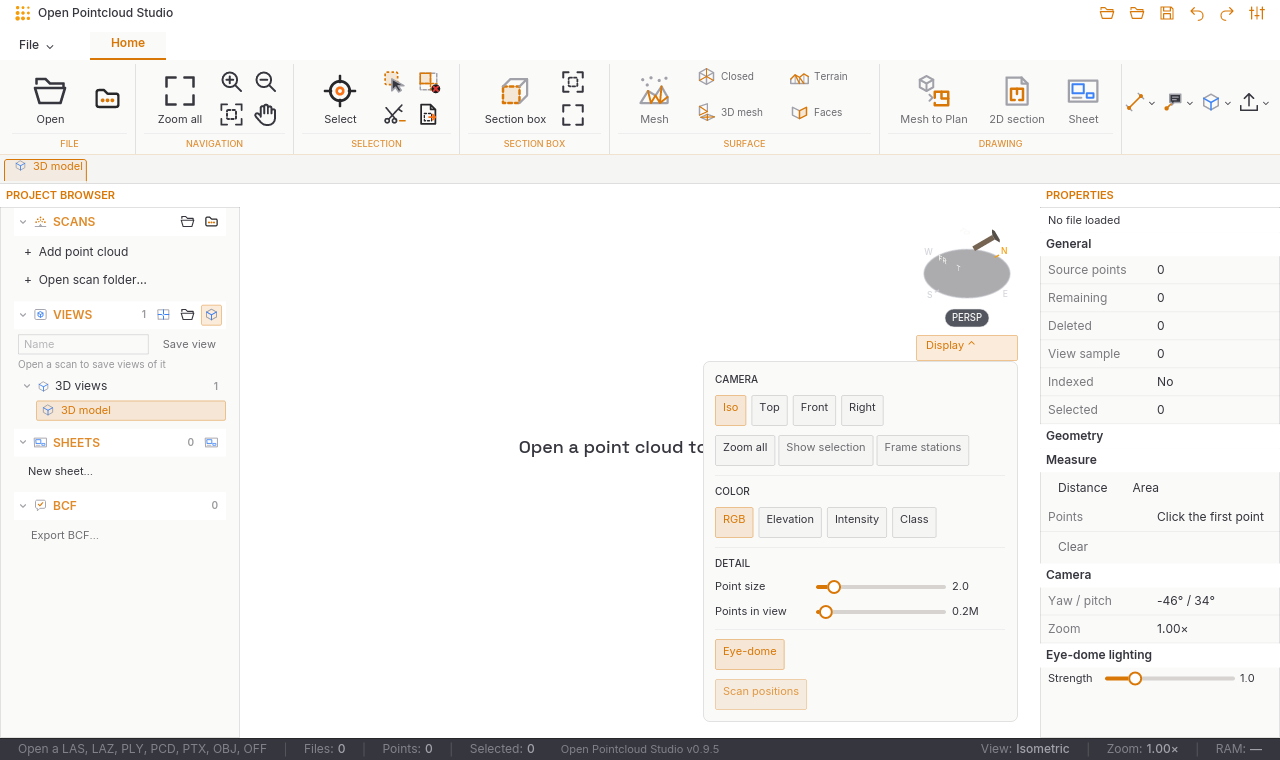
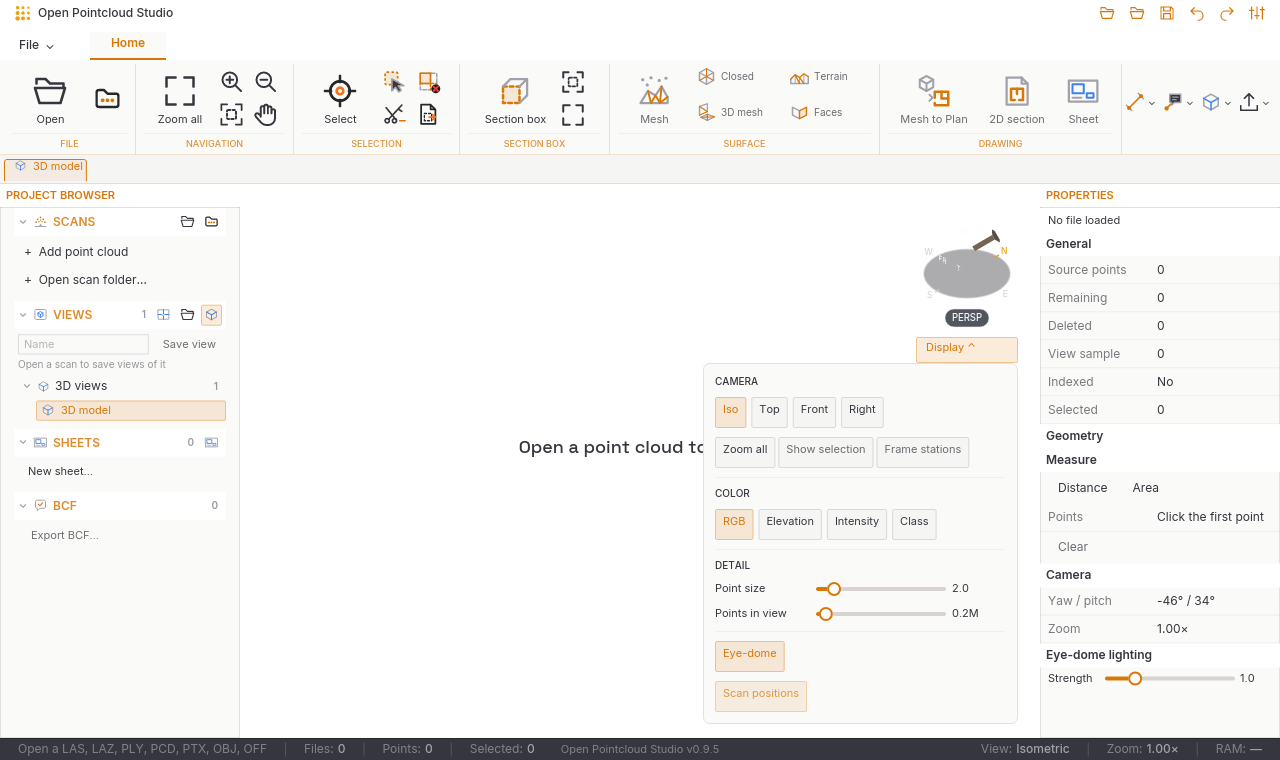
Share File navigation and preserve Pointcloud chrome

Changed region(s): [[0.5625, 0.6355, 0.7812, 0.9382], [0.5625, 0.4842, 0.75, 0.6053], [0.7188, 0.4237, 0.7812, 0.4842]]

diff --git a/native/desktop/src/file_view.rs b/native/desktop/src/file_view.rs
@@ -125,8 +125,6 @@ pub enum FileAction {
     MeshToPlans,
 }
 
-/// The height of a menu row that leads to a page.
-const PAGE_ROW_H: f32 = 40.0;
 /// The widest a column of tiles grows on a wide window.
 const TILE_COLUMN_W: f32 = 620.0;
 
@@ -244,88 +242,32 @@ impl Studio {
     /// is open and what the application is, then the entries every OpenAEC
     /// application has.
     fn file_menu(&self) -> Element<'_, Message> {
-        let rule = || {
-            container(Space::new(Fill, 1)).style(|theme| {
-                container::Style::default().background(ui_theme::colors(theme).border_subtle)
-            })
-        };
-        let item = |label: &'static str, message: Message| {
-            button(text(tr(label)).size(14))
-                .on_press(message)
-                .style(|theme, status| ui_style::ribbon_button(theme, false, status))
-                .width(Fill)
-                .padding([11, 18])
-        };
-        // The open page carries the accent bar of the style book at its left.
-        let page = |page: FilePage| {
-            let open = self.file_page == page;
-            row![
-                container(Space::new(3, Fill)).style(move |theme| {
-                    let colors = ui_theme::colors(theme);
-                    container::Style::default().background(if open {
-                        colors.accent
-                    } else {
-                        iced::Color::TRANSPARENT
-                    })
-                }),
-                button(text(tr(page.label())).size(14))
-                    .on_press(Message::FilePage(page))
-                    .style(move |theme, status| ui_style::ribbon_button(theme, open, status))
-                    .width(Fill)
-                    .height(Fill)
-                    .padding([11, 15]),
-            ]
-            .height(PAGE_ROW_H)
-        };
+        use openaec_ui::widgets::{BackstageFooter, BackstagePage};
         let pages = |task: bool| {
             FilePage::ALL
                 .into_iter()
-                .filter(|each| each.is_task() == task)
-                .fold(column![].width(Fill), |pages, each| pages.push(page(each)))
+                .filter(|page| page.is_task() == task)
+                .map(|page| BackstagePage {
+                    label: tr(page.label()).into(),
+                    message: Message::FilePage(page),
+                    active: self.file_page == page,
+                    enabled: true,
+                })
+                .collect()
         };
-        let top = column![
-            Space::new(Fill, 14),
+        openaec_ui::widgets::backstage_nav_with(
             pages(true),
-            container(rule()).padding([10, 0]),
             pages(false),
-        ]
-        .width(Fill);
-        let footer = column![
-            rule(),
-            item(
-                "Settings…",
-                Message::Settings(settings_dialog::SettingsAction::Open),
-            ),
-            button(
-                text(tr("←  Return to model"))
-                    .size(13)
-                    .font(fonts::SEMIBOLD),
-            )
-            .on_press(Message::ToggleFile)
-            .style(|theme, status| ui_style::ribbon_button(theme, false, status))
-            .width(Fill)
-            .padding([13, 18]),
-            // Exit ends the session at once: it stands apart, below the entry
-            // that is used most.
-            rule(),
-            item("Exit", Message::Exit),
-        ]
-        .width(Fill);
-
-        container(column![ui_style::scrollable(top).height(Fill), footer].height(Fill))
-            .width(260)
-            .height(Fill)
-            .style(|theme| {
-                let colors = ui_theme::colors(theme);
-                container::Style::default()
-                    .background(colors.bg_lighter)
-                    .border(iced::Border {
-                        color: colors.border,
-                        width: 1.0,
-                        radius: 0.0.into(),
-                    })
-            })
-            .into()
+            BackstageFooter {
+                settings: (
+                    tr("Settings…").into(),
+                    Message::Settings(settings_dialog::SettingsAction::Open),
+                ),
+                back: (tr("←  Return to model").into(), Message::ToggleFile),
+                exit: (tr("Exit").into(), Message::Exit),
+            },
+            ui_theme::shared_theme,
+        )
     }
 
     /// The title of a page with one line under it that says what it is for.

diff --git a/native/ui/src/shell.rs b/native/ui/src/shell.rs
@@ -1,5 +1,5 @@
 use crate::{fonts, icons::Icon, model::*, widgets, Language, Theme};
-use iced::{widget::{button, column, container, mouse_area, pane_grid, pick_list, row, scrollable, slider, stack, text, tooltip, Column, Row, Space}, Element, Fill, Padding};
+use iced::{widget::{button, column, container, mouse_area, pane_grid, pick_list, row, scrollable, slider, stack, text, tooltip, Row, Space}, Element, Fill, Padding};
 
 /// Application-owned contents. Shell layout and styling stay inside the crate.
 pub struct Slots<'a, M> {
@@ -9,6 +9,7 @@ pub struct Slots<'a, M> {
     pub documents: Vec<Document>,
     pub active_document: Option<String>,
     pub file_commands: Vec<Command<M>>,
+    pub file_active_label: Option<String>,
     pub quick_commands: Vec<Command<M>>,
     pub status: String,
     pub content: Box<dyn Fn(Region) -> Element<'a, Message<M>> + 'a>,
@@ -106,10 +107,24 @@ pub fn shell<'a, M: Clone + 'a>(state: &'a ShellState, slots: Slots<'a,M>) -> El
     }
     let document_bar=crate::frame::document_bar(theme, horizontal(documents));
     let body: Element<'a,Message<M>> = if state.backstage {
-        let mut commands=Column::new().spacing(8).push(widgets::action(l.text("Terug","Back"),Icon::Back,Some(Message::Ui(UiEvent::Backstage(false))),theme));
-        for command in slots.file_commands { commands=commands.push(widgets::action(command.label,command.icon,command.enabled.then_some(Message::Command(command.message)),theme)); }
-        commands=commands.push(widgets::action(l.text("Instellingen","Settings"),Icon::Settings,Some(Message::Ui(UiEvent::Settings(true))),theme));
-        container(column![text(l.text("Bestand","File")).font(fonts::HEADING).size(28),commands].spacing(24)).padding(32).width(Fill).height(Fill).into()
+        let pages = slots.file_commands.into_iter().map(|command| {
+            let active = slots.file_active_label.as_ref() == Some(&command.label);
+            widgets::BackstagePage {
+                label: command.label,
+                message: Message::Command(command.message),
+                active,
+                enabled: command.enabled,
+            }
+        }).collect();
+        let footer = widgets::BackstageFooter {
+            settings: (l.text("Instellingen…", "Settings…").into(), Message::Ui(UiEvent::Settings(true))),
+            back: (l.text("←  Terug naar werkgebied", "←  Return to workspace").into(), Message::Ui(UiEvent::Backstage(false))),
+            exit: (l.text("Afsluiten", "Exit").into(), Message::Ui(UiEvent::CloseWindow)),
+        };
+        row![
+            widgets::backstage_nav_with(pages, Vec::new(), footer, move |_| theme),
+            (slots.content)(Region::Workspace),
+        ].height(Fill).width(Fill).into()
     } else if slots.mode == ChromeMode::TopNav {
         (slots.content)(Region::Workspace)
     } else if slots.mode == ChromeMode::CanvasRibbon {
@@ -137,7 +152,12 @@ pub fn shell<'a, M: Clone + 'a>(state: &'a ShellState, slots: Slots<'a,M>) -> El
         status_row.align_y(iced::Alignment::Center).height(Fill).into(),
         8,
     );
-    let bands = if slots.mode == ChromeMode::TopNav {
+    let bands = if state.backstage {
+        crate::frame::frame(crate::frame::FrameSlots {
+            titlebar: titlebar.into(), tabs: tabs.into(), ribbon: None,
+            documents: None, content: body, status: status.into(),
+        })
+    } else if slots.mode == ChromeMode::TopNav {
         crate::frame::frame(crate::frame::FrameSlots {
             titlebar: titlebar.into(), tabs: tabs.into(), ribbon: None,
             documents: None, content: body, status: status.into(),

diff --git a/native/ui/src/widgets.rs b/native/ui/src/widgets.rs
@@ -15,6 +15,109 @@ use iced::{
 };
 pub use crate::popover::{popover, popover_aligned};
 
+/// A destination in the shared File/Backstage navigation.
+pub struct BackstagePage<M> {
+    pub label: String,
+    pub message: M,
+    pub active: bool,
+    pub enabled: bool,
+}
+
+/// Application-owned actions shown below the shared page list.
+pub struct BackstageFooter<M> {
+    pub settings: (String, M),
+    pub back: (String, M),
+    pub exit: (String, M),
+}
+
+/// The 260 px File menu used by desktop studios. Page order, labels and
+/// messages belong to the application; row geometry and colours belong here.
+pub fn backstage_nav_with<'a, M: Clone + 'a, F>(
+    task_pages: Vec<BackstagePage<M>>,
+    other_pages: Vec<BackstagePage<M>>,
+    footer: BackstageFooter<M>,
+    resolve_theme: F,
+) -> Element<'a, M>
+where
+    F: Fn(&iced::Theme) -> Theme + Copy + 'a,
+{
+    let rule = || {
+        container(Space::new(Fill, 1)).style(move |theme| {
+            container::Style::default().background(resolve_theme(theme).tokens().border_subtle)
+        })
+    };
+    let page = |entry: BackstagePage<M>| {
+        let active = entry.active;
+        row![
+            container(Space::new(3, Fill)).style(move |theme| {
+                container::Style::default().background(if active {
+                    resolve_theme(theme).tokens().accent
+                } else {
+                    iced::Color::TRANSPARENT
+                })
+            }),
+            button(text(entry.label).size(14))
+                .on_press_maybe(entry.enabled.then_some(entry.message))
+                .style(move |theme, status| {
+                    ribbon_button_style(resolve_theme(theme), active, status)
+                })
+                .width(Fill)
+                .height(Fill)
+                .padding([11, 15]),
+        ]
+        .height(40)
+    };
+    let pages = |entries: Vec<BackstagePage<M>>| {
+        entries.into_iter().fold(column![].width(Fill), |list, entry| list.push(page(entry)))
+    };
+    let item = |label: String, message: M| {
+        button(text(label).size(14))
+            .on_press(message)
+            .style(move |theme, status| {
+                ribbon_button_style(resolve_theme(theme), false, status)
+            })
+            .width(Fill)
+            .padding([11, 18])
+    };
+    let top = column![
+        Space::new(Fill, 14),
+        pages(task_pages),
+        container(rule()).padding([10, 0]),
+        pages(other_pages),
+    ]
+    .width(Fill);
+    let footer = column![
+        rule(),
+        item(footer.settings.0, footer.settings.1),
+        button(text(footer.back.0).size(13).font(fonts::STRONG))
+            .on_press(footer.back.1)
+            .style(move |theme, status| {
+                ribbon_button_style(resolve_theme(theme), false, status)
+            })
+            .width(Fill)
+            .padding([13, 18]),
+        rule(),
+        item(footer.exit.0, footer.exit.1),
+    ]
+    .width(Fill);
+    container(column![
+        scrollable(top)
+            .height(Fill)
+            .style(move |theme, status| scrollable_style(resolve_theme(theme), status)),
+        footer,
+    ]
+    .height(Fill))
+    .width(260)
+    .height(Fill)
+    .style(move |theme| {
+        let t = resolve_theme(theme).tokens();
+        container::Style::default()
+            .background(t.bg_lighter)
+            .border(Border { color: t.border, width: 1.0, radius: 0.0.into() })
+    })
+    .into()
+}
+
 pub fn slider_style(theme: Theme, status: slider::Status) -> slider::Style {
     let t = theme.tokens();
     slider::Style {

diff --git a/native/ui/src/runtime.rs b/native/ui/src/runtime.rs
@@ -22,6 +22,7 @@ pub trait Application: 'static {
         widgets::empty_state(language.text("Eigenschappen","Properties"), "", theme)
     }
     fn file_commands(&self, _language: Language) -> Vec<Command<Self::Command>> { Vec::new() }
+    fn file_active_label(&self, _language: Language) -> Option<String> { None }
     fn quick_commands(&self, _language: Language) -> Vec<Command<Self::Command>> { Vec::new() }
     fn documents(&self) -> Vec<Document> { Vec::new() }
     fn active_document(&self) -> Option<String> { None }
@@ -35,7 +36,10 @@ struct Runtime<A:Application> { app:A, shell:ShellState, preferences_path:Option
 impl<A:Application> Runtime<A> {
     fn update(&mut self, message: Message<A::Command>) -> Task<Message<A::Command>> {
         match message {
-            Message::Command(command) => self.app.update(command).map(Message::Command),
+            Message::Command(command) => {
+                self.shell.backstage = false;
+                self.app.update(command).map(Message::Command)
+            }
             Message::Document(event) => self.app.document_event(event).map(Message::Command),
             Message::Ui(event) => {
                 if matches!(event, UiEvent::SettingsEscape) && !self.shell.settings {
@@ -70,7 +74,7 @@ impl<A:Application> Runtime<A> {
         let mode=self.app.chrome_mode();
         shell(&self.shell, Slots {
             title:self.app.title(), mode, tabs:self.app.ribbon(language), documents:self.app.documents(),
-            active_document:self.app.active_document(), file_commands:self.app.file_commands(language), quick_commands:self.app.quick_commands(language),
+            active_document:self.app.active_document(), file_commands:self.app.file_commands(language), file_active_label:self.app.file_active_label(language), quick_commands:self.app.quick_commands(language),
             status:self.error.clone().unwrap_or_else(||self.app.status(language)),
             overlay:self.app.overlay(theme,language).map(|element|element.map(Message::Command)),
             content:Box::new(move |region| match region {
@@ -125,6 +129,19 @@ mod settings_tests {
             iced::widget::text("test").into()
         }
         fn update(&mut self, _: Self::Command) -> Task<Self::Command> { Task::none() }
+    }
+
+    #[test]
+    fn choosing_a_file_page_returns_to_the_workspace() {
+        let mut runtime = Runtime {
+            app: TestApplication,
+            shell: ShellState::default(),
+            preferences_path: None,
+            error: None,
+        };
+        runtime.shell.backstage = true;
+        let _ = runtime.update(Message::Command(()));
+        assert!(!runtime.shell.backstage);
     }
 
     #[test]

diff --git a/native/desktop/src/shell_tests.rs b/native/desktop/src/shell_tests.rs
@@ -231,6 +231,22 @@ fn display_popup_closes_when_clicking_outside() {
 }
 
 #[test]
+fn shared_backstage_nav_keeps_page_rhythm_and_selected_marker() {
+    let mut studio = Studio::default();
+    studio.file_open = true;
+    studio.file_page = crate::file_view::FilePage::Extensions;
+    for theme in [UiTheme::Light, UiTheme::Forge] {
+        studio.ui_theme = theme;
+        let picture = crate::test_render::render_window(&studio, iced::Size::new(1280.0, 760.0));
+        let accent = theme.colors().accent;
+        assert!(picture.is(1, 315, accent), "{} selected marker", theme.key());
+        assert!(!picture.is(1, 275, accent), "{} row above", theme.key());
+        assert!(!picture.is(1, 355, accent), "{} row below", theme.key());
+        assert_ne!(picture.rgb(259, 315), picture.rgb(260, 315), "{} 260 px edge", theme.key());
+    }
+}
+
+#[test]
 #[ignore = "regenerate native review images on demand"]
 fn export_harmonized_shell_previews() {
     let folder = std::path::Path::new(env!("CARGO_MANIFEST_DIR")).join("../design");

diff --git a/native/desktop/src/main.rs b/native/desktop/src/main.rs
@@ -11076,7 +11076,8 @@ impl Studio {
             let items = column![
                 iced::widget::Space::with_height(151),
                 controls,
-            ];
+            ]
+            .spacing(2);
             canvas.push(
                 container(items)
                     .width(Fill)

diff --git a/native/ui/README.md b/native/ui/README.md
@@ -26,6 +26,8 @@ Both modal variants are centered initially, can be dragged by the 30 px header w
 
 `widgets::color_grid` renders an app-owned palette in vertical columns with keyboard-focusable color buttons and tooltips. `widgets::popover` and `widgets::popover_aligned` anchor arbitrary app content over the shell, moves it above the anchor when there is insufficient room below, and closes on an outside click. `RibbonCustomColor` lets an application supply a validated custom-color editor inside the same popup. The Style Repo uses them together in the PDF ribbon; a software-rendered pixel test checks all 42 source colors in their 7 × 6 arrangement, and an event test checks palette actions and outside-click dismissal.
 
+`widgets::backstage_nav_with` draws the shared 260 px File navigation with 40 px page rows, a selected accent mark, separators and Settings/Back/Exit footer. Applications provide translated pages, enabled actions and a theme resolver. The Style Repo shell uses it for catalogue navigation and hides its ribbon and document band while File is open; Pointcloud uses the same component for its seven real file pages. Pointcloud also anchors its Display controls with `popover_aligned`.
+
 `widgets::form_field` provides a labelled, application-owned input for full-page screens; the Style Repo uses it in the native Field Project form. `widgets::property_grid_row_with`, `property_grid_control_with`, and `property_section_with` provide the shared properties dock. Rows are 28 px high with aligned label and value columns and a bottom rule; section headers are 24 px high. Callers supply their own localized text, input controls and theme resolver. The Style Repo shows a live scale slider in the control grid; Pointcloud uses the same rows for its six section-box sliders and editable layout viewport fields.
 
 This package contains the shared Rust implementation, six bundled fonts with their [separate license notices](NOTICE.md), 27 canonical control icons including the source-reviewed Speech microphone, and four reviewed CAD/Pointcloud domain meanings with separate 16 px artwork. `icons::DomainIcon` keeps those commands distinct from the general `icons::Icon` set. Source icons collected for design research, unapproved FEM/BIM drafts and Style Repo screenshots live in the sibling `openaec-style-repo` application and are not included in this crate package.
